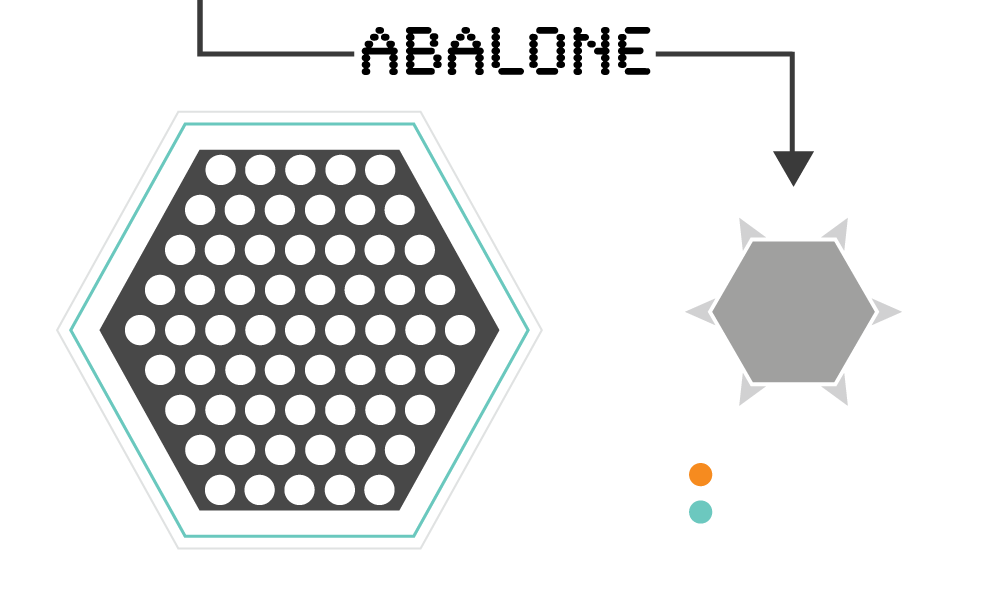
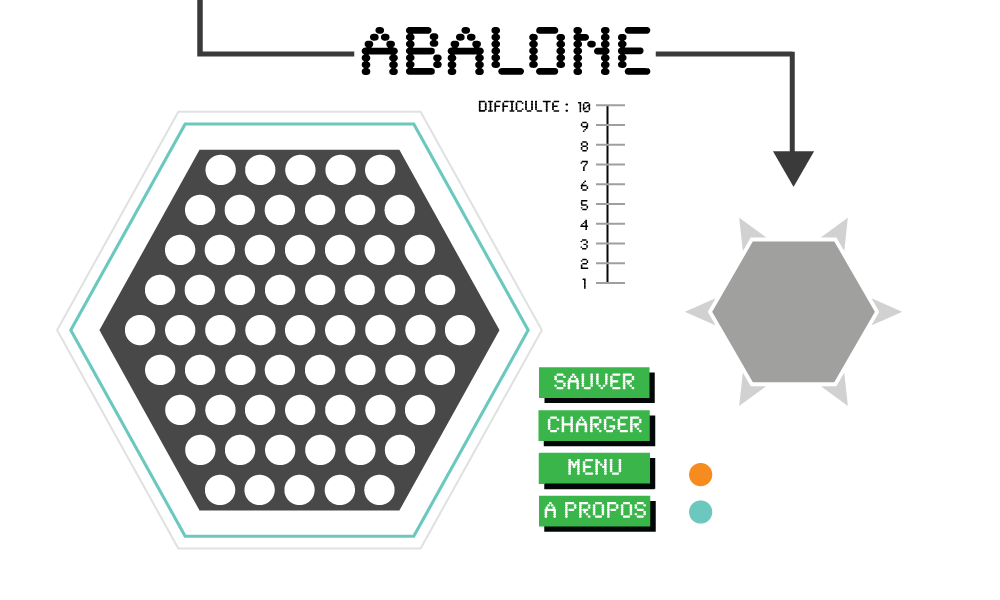
Ajout d'un slider pour la difficulté

Changed region(s): [[0.527, 0.6, 0.682, 0.9], [0.558, 0.24, 0.62, 0.48], [0.465, 0.15, 0.62, 0.21]]

diff --git a/src/vue/Panneau.java b/src/vue/Panneau.java
@@ -32,6 +32,10 @@ public class Panneau extends JPanel{
 
     private ArrayList<Config.Direction> tabDirections = new ArrayList<Config.Direction>();
 
+    JSlider slideDif = new JSlider(JSlider.VERTICAL,0,10,0);
+
+    int difficulty=0;
+
     public void paintComponent(Graphics g) {
 
         //Initialisation
@@ -50,6 +54,9 @@ public class Panneau extends JPanel{
 
             validButtonDown.setBounds(530, 140, 170, 50);
             validButtonUp.setBounds(530, 140, 170, 50);
+
+            slideDif.setBounds(583,90,50,208);
+            add(slideDif);
 
             //police
             try {
@@ -328,6 +335,8 @@ public class Panneau extends JPanel{
             boardView.initTabPieces();
             tabDirections.clear();
         }
+        this.difficulty=slideDif.getValue();
+        System.out.println("DIFFICULTE : "+this.difficulty);
         repaint();
     }
 
@@ -360,5 +369,9 @@ public class Panneau extends JPanel{
             }
         }
         return false;
+    }
+
+    public int getDifficulty() {
+        return difficulty;
     }
 } //

diff --git a/src/vue/Fenetre.java b/src/vue/Fenetre.java
@@ -63,4 +63,6 @@ public class Fenetre extends JFrame {
     public Coords[] getTabPieces() {
         return pan.getTabPieces();
     }
+
+    public int getDifficulty() { return pan.getDifficulty(); }
 }
